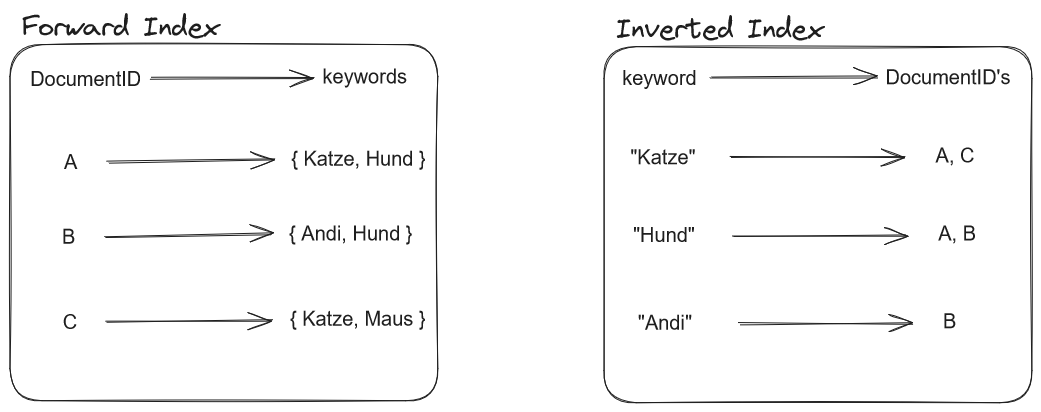
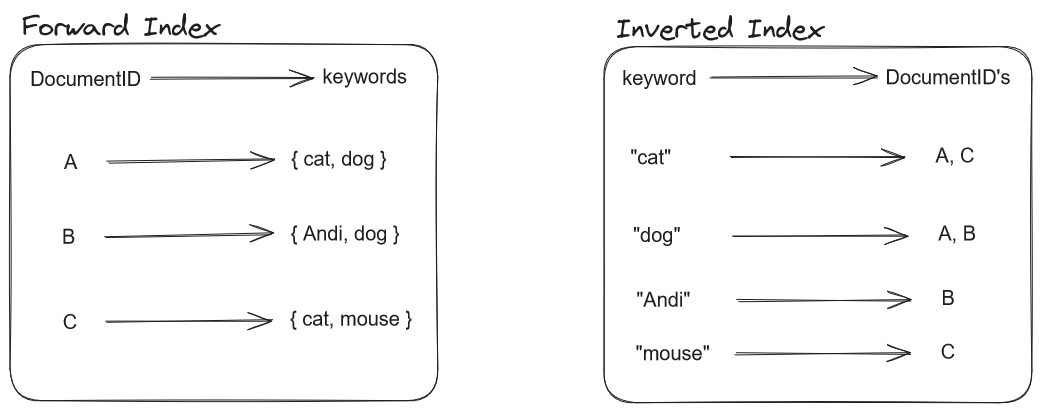
Adjusted Article
- added missing dot
- translated index examples to english

diff --git a/docs/presentations/articles/elasticsearch.md b/docs/presentations/articles/elasticsearch.md
@@ -32,7 +32,7 @@ and managing stored data. Other services like Beats are often integrated for var
 !!! example "Elastic Stack"
     
     Logstash is usually used to ingest data from various sources into Elasticsearch (optionally parsing it beforehand).
-    Beats are Agents, attached to for example Applications to collect logs or other metrics. Kibana utilizes the powerful search engine of Elasticsearch to then visualize the data
+    Beats are Agents, attached to for example Applications to collect logs or other metrics. Kibana utilizes the powerful search engine of Elasticsearch to then visualize the data.
     ![ELK Stack - Data Flow](./assets/elasticsearch-elk-stack-data-flow.png)
 
 ### Licensing Controversies
